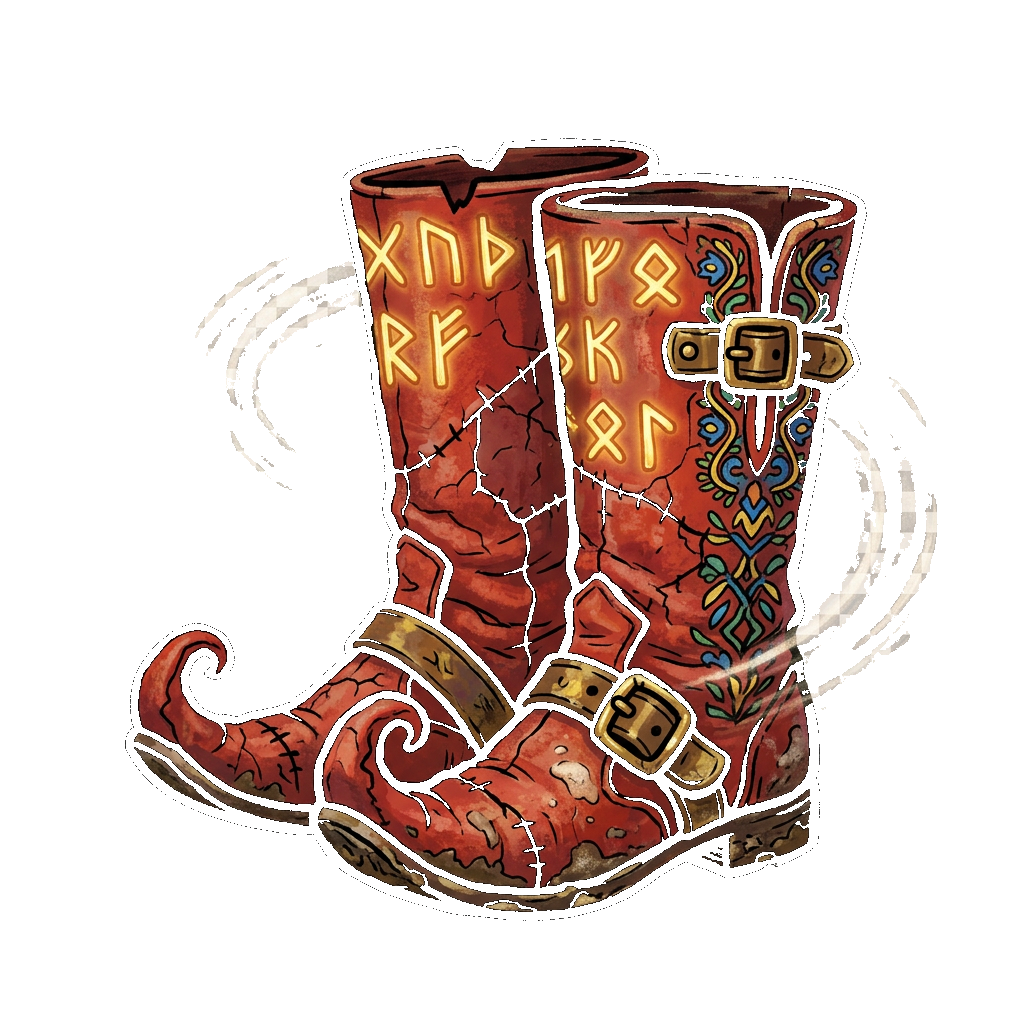
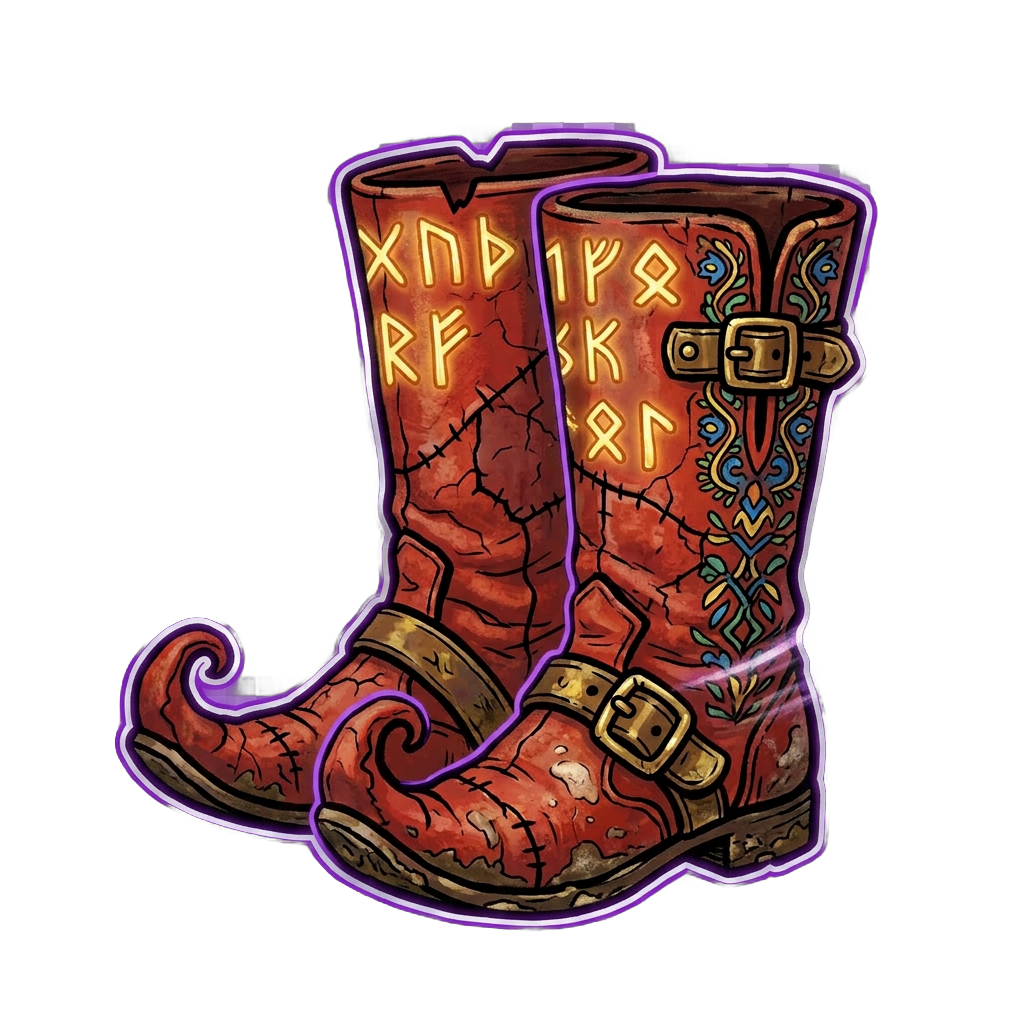
@'

diff --git a/tools/clean_item_art.py b/tools/clean_item_art.py
@@ -1,0 +1,103 @@
+"""Чистильщик артов экипировки.
+
+Художник экспортирует предметы на «шахматке» (RGB без альфы) — серый фон
+впечатан пикселями. Скрипт выбивает этот фон в настоящую прозрачность:
+заливкой от краёв по ахроматичным светлым пикселям, чтобы не задеть
+светлые блики и серебро ВНУТРИ предмета (они отрезаны цветным контуром).
+
+Запуск:
+    python tools/clean_item_art.py            # все файлы в assets/items
+    python tools/clean_item_art.py amulet bronya   # только указанные
+
+Идемпотентно: уже прозрачные PNG (с альфой) пропускаются.
+"""
+
+import sys
+from collections import deque
+from pathlib import Path
+
+import numpy as np
+from PIL import Image
+
+if hasattr(sys.stdout, "reconfigure"):
+    sys.stdout.reconfigure(encoding="utf-8")
+
+ITEMS_DIR = Path(__file__).resolve().parent.parent / "assets" / "items"
+
+# Шахматный фон: ахроматичные (R≈G≈B) и средне-светлые пиксели.
+ACHROMATIC_MAX_DIFF = 34   # |max(rgb) - min(rgb)| — фон серый, предмет цветной
+BG_MIN_BRIGHT = 110        # темнее — это уже предмет/тень
+BG_MAX_BRIGHT = 240        # ярче — это белый блик на предмете, не трогаем
+
+
+def _bg_candidate(arr: np.ndarray) -> np.ndarray:
+    r = arr[:, :, 0].astype(np.int16)
+    g = arr[:, :, 1].astype(np.int16)
+    b = arr[:, :, 2].astype(np.int16)
+    mx = np.maximum(np.maximum(r, g), b)
+    mn = np.minimum(np.minimum(r, g), b)
+    bright = (r + g + b) // 3
+    return (
+        (mx - mn <= ACHROMATIC_MAX_DIFF)
+        & (bright >= BG_MIN_BRIGHT)
+        & (bright <= BG_MAX_BRIGHT)
+    )
+
+
+def _flood_from_border(cand: np.ndarray) -> np.ndarray:
+    """Связная заливка фона: только то, что соединено с краем картинки."""
+    h, w = cand.shape
+    bg = np.zeros((h, w), dtype=bool)
+    dq: deque[tuple[int, int]] = deque()
+
+    for x in range(w):
+        for y in (0, h - 1):
+            if cand[y, x] and not bg[y, x]:
+                bg[y, x] = True
+                dq.append((y, x))
+    for y in range(h):
+        for x in (0, w - 1):
+            if cand[y, x] and not bg[y, x]:
+                bg[y, x] = True
+                dq.append((y, x))
+
+    while dq:
+        y, x = dq.popleft()
+        for ny, nx in ((y - 1, x), (y + 1, x), (y, x - 1), (y, x + 1)):
+            if 0 <= ny < h and 0 <= nx < w and cand[ny, nx] and not bg[ny, nx]:
+                bg[ny, nx] = True
+                dq.append((ny, nx))
+    return bg
+
+
+def clean(path: Path) -> str:
+    img = Image.open(path)
+    if img.mode in ("RGBA", "LA") or (img.mode == "P" and "transparency" in img.info):
+        return "пропущен (уже с прозрачностью)"
+
+    rgb = np.asarray(img.convert("RGB"))
+    bg = _flood_from_border(_bg_candidate(rgb))
+
+    alpha = np.where(bg, 0, 255).astype(np.uint8)
+    out = np.dstack([rgb, alpha])
+    Image.fromarray(out, "RGBA").save(path)
+    removed = int(bg.sum())
+    pct = 100 * removed / bg.size
+    return f"очищен (фон {pct:.0f}%)"
+
+
+def main(argv: list[str]) -> int:
+    if argv:
+        files = [ITEMS_DIR / f"{name.removesuffix('.png')}.png" for name in argv]
+    else:
+        files = sorted(ITEMS_DIR.glob("*.png"))
+    for p in files:
+        if not p.is_file():
+            print(f"  ✗ {p.name}: нет файла")
+            continue
+        print(f"  • {p.name}: {clean(p)}")
+    return 0
+
+
+if __name__ == "__main__":
+    sys.exit(main(sys.argv[1:]))

diff --git a/tools/wipe_equipment.py b/tools/wipe_equipment.py
@@ -1,0 +1,62 @@
+"""Разовая зачистка экипировки у ВСЕХ игроков.
+
+Нужна после тестов с бесплатной кузницей: снимает все надетые вещи и
+отменяет незавершённые заказы кузнеца. Золото/ресурсы не трогает —
+при тесте крафт был бесплатным, возвращать нечего.
+
+Работает с той базой, что в DATABASE_URL (.env). Чтобы зачистить прод —
+подставь его DATABASE_URL в окружение перед запуском.
+
+    python tools/wipe_equipment.py            # покажет, скольких затронет, и спросит
+    python tools/wipe_equipment.py --yes      # без вопроса (для CI/прод)
+"""
+
+import asyncio
+import sys
+
+from sqlalchemy import func, select, update
+
+from bot.db.base import engine, session_factory
+from bot.db.models import Player
+
+if hasattr(sys.stdout, "reconfigure"):
+    sys.stdout.reconfigure(encoding="utf-8")
+
+
+async def wipe(confirm: bool) -> int:
+    async with session_factory() as session:
+        with_gear = await session.scalar(
+            select(func.count())
+            .select_from(Player)
+            .where(Player.equipment != {})
+        )
+        with_craft = await session.scalar(
+            select(func.count())
+            .select_from(Player)
+            .where(Player.craft_item.is_not(None))
+        )
+        print(f"С экипировкой: {with_gear} · с активным заказом кузнеца: {with_craft}")
+
+        if not confirm:
+            ans = input("Стереть всё это? Введи 'yes' для подтверждения: ").strip()
+            if ans.lower() != "yes":
+                print("Отменено. Ничего не тронуто.")
+                return 0
+
+        await session.execute(
+            update(Player).values(
+                equipment={},
+                craft_item=None,
+                craft_ends_at=None,
+                craft_notified=False,
+            )
+        )
+        await session.commit()
+        print(f"✅ Готово. Экипировка снята у всех, заказы кузнеца отменены.")
+    await engine.dispose()
+    return 0
+
+
+if __name__ == "__main__":
+    confirm = "--yes" in sys.argv[1:]
+    sys.exit(asyncio.run(wipe(confirm)))

diff --git a/bot/game/character.py b/bot/game/character.py
@@ -14,19 +14,20 @@ ASSETS_DIR = Path(__file__).resolve().parent.parent.parent / "assets"
 BG_FILE = ASSETS_DIR / "character.png"
 ITEMS_DIR = ASSETS_DIR / "items"
 
-# Слот -> рамка (x1, y1, x2, y2) на фоне 1024x1024
+# Слот -> рамка (x1, y1, x2, y2) на фоне 1024x1024.
+# Координаты сняты автодетектом по внутреннему краю деревянных рамок.
 SLOT_BOXES = {
-    "head": (133, 142, 255, 263),
-    "left_hand": (133, 320, 255, 442),
-    "belt": (133, 543, 252, 662),
-    "legs": (128, 752, 250, 870),
-    "chest": (455, 315, 577, 442),
-    "amulet": (623, 142, 744, 262),
-    "talisman": (758, 142, 880, 262),
-    "right_hand": (760, 318, 882, 440),
-    "weapon": (760, 543, 882, 662),
-    "bag": (760, 752, 882, 870),
-    "boots": (390, 720, 615, 875),  # прямо на ногах силуэта
+    "head": (138, 141, 254, 256),
+    "left_hand": (137, 325, 254, 439),
+    "belt": (137, 558, 254, 666),
+    "legs": (137, 746, 254, 861),
+    "chest": (454, 319, 570, 432),
+    "amulet": (626, 141, 742, 256),
+    "talisman": (754, 141, 881, 256),
+    "right_hand": (771, 325, 876, 439),
+    "weapon": (770, 558, 876, 666),
+    "bag": (770, 746, 880, 861),
+    "boots": (390, 720, 615, 875),  # прямо на ногах силуэта, без рамки
 }
 
 _cache_key: tuple | None = None
@@ -37,8 +38,8 @@ def background_exists() -> bool:
     return BG_FILE.is_file()
 
 
-def _item_sprite(item_id: str) -> Image.Image | None:
-    p = ITEMS_DIR / f"{item_id}.png"
+def _item_sprite(sprite_name: str) -> Image.Image | None:
+    p = ITEMS_DIR / f"{sprite_name}.png"
     if not p.is_file():
         return None
     img = Image.open(p).convert("RGBA")
@@ -55,7 +56,7 @@ def render(equipment: dict | None) -> bytes:
     if key == _cache_key and _cache_bytes is not None:
         return _cache_bytes
 
-    from bot.game.items import parse_entry
+    from bot.game.items import CATALOG, parse_entry
 
     TIER_FRAME = {2: (170, 175, 190, 255), 3: (212, 168, 50, 255)}  # серебро/золото
 
@@ -66,7 +67,9 @@ def render(equipment: dict | None) -> bytes:
         if box is None:
             continue
         item_id, tier = parse_entry(entry)
-        sprite = _item_sprite(item_id)
+        item = CATALOG.get(item_id)
+        sprite_name = (item.sprite or item_id) if item else item_id
+        sprite = _item_sprite(sprite_name)
         if sprite is None:
             continue
         x1, y1, x2, y2 = box

diff --git a/bot/game/items.py b/bot/game/items.py
@@ -16,6 +16,7 @@ class Item:
     description: str        # жёсткий трактирный тон
     cost: dict              # gold/wood/grain/hops
     craft_hours: int
+    sprite: str = ""        # имя файла арта в assets/items (без .png); "" = по id
     # экономика
     income_pct: int = 0         # +% к доходу таверны
     yield_pct: int = 0          # +% к добыче вылазок (все ресурсы)
@@ -45,7 +46,7 @@ SLOTS = {
 
 # ВРЕМЕННО для теста: вещи бесплатны и куются мгновенно.
 # Перед боевым запуском поставить False!
-TEST_FREE_CRAFT = True
+TEST_FREE_CRAFT = False
 
 # ===== Ярусы качества =====
 TIER_MAX = 3
@@ -102,13 +103,13 @@ CATALOG: dict[str, Item] = {
             id="leather_cap", slot="head", name="Шапка трактирщика",
             description="Скрывает похмелье и лысину. Постояльцы доверяют.",
             cost={"gold": 300, "wood": 0, "grain": 30, "hops": 10},
-            craft_hours=2, income_pct=5, armor=2,
+            craft_hours=2, income_pct=5, armor=2, sprite="shapka",
         ),
         Item(
             id="fartuk", slot="chest", name="Фартук трактирщика",
             description="Пятна эля, жира и чьей-то крови. В основном эля.",
             cost={"gold": 700, "wood": 20, "grain": 40, "hops": 0},
-            craft_hours=4, yield_pct=5, armor=8,
+            craft_hours=4, yield_pct=5, armor=8, sprite="bronya",
         ),
         Item(
             id="oak_shield", slot="left_hand", name="Щит дубовый",
@@ -126,7 +127,7 @@ CATALOG: dict[str, Item] = {
             id="kovsh", slot="weapon", name="Ковш боевой",
             description="Черпает эль, проламывает черепа. Шипы — для убедительности.",
             cost={"gold": 1200, "wood": 30, "grain": 0, "hops": 20},
-            craft_hours=6, yield_pct=10, damage=14, crit=7,
+            craft_hours=6, yield_pct=10, damage=14, crit=7, sprite="oruzhie",
         ),
         Item(
             id="poyas", slot="belt", name="Пояс мастеровой",
@@ -150,7 +151,7 @@ CATALOG: dict[str, Item] = {
             id="kruzhka", slot="amulet", name="Последняя капля",
             description="Кружка-оберег. Последняя капля из неё не прольётся никогда.",
             cost={"gold": 1000, "wood": 0, "grain": 20, "hops": 40},
-            craft_hours=5, income_pct=10, luck=3,
+            craft_hours=5, income_pct=10, luck=3, sprite="amulet",
         ),
         Item(
             id="rooster_talisman", slot="talisman", name="Талисман петуха",